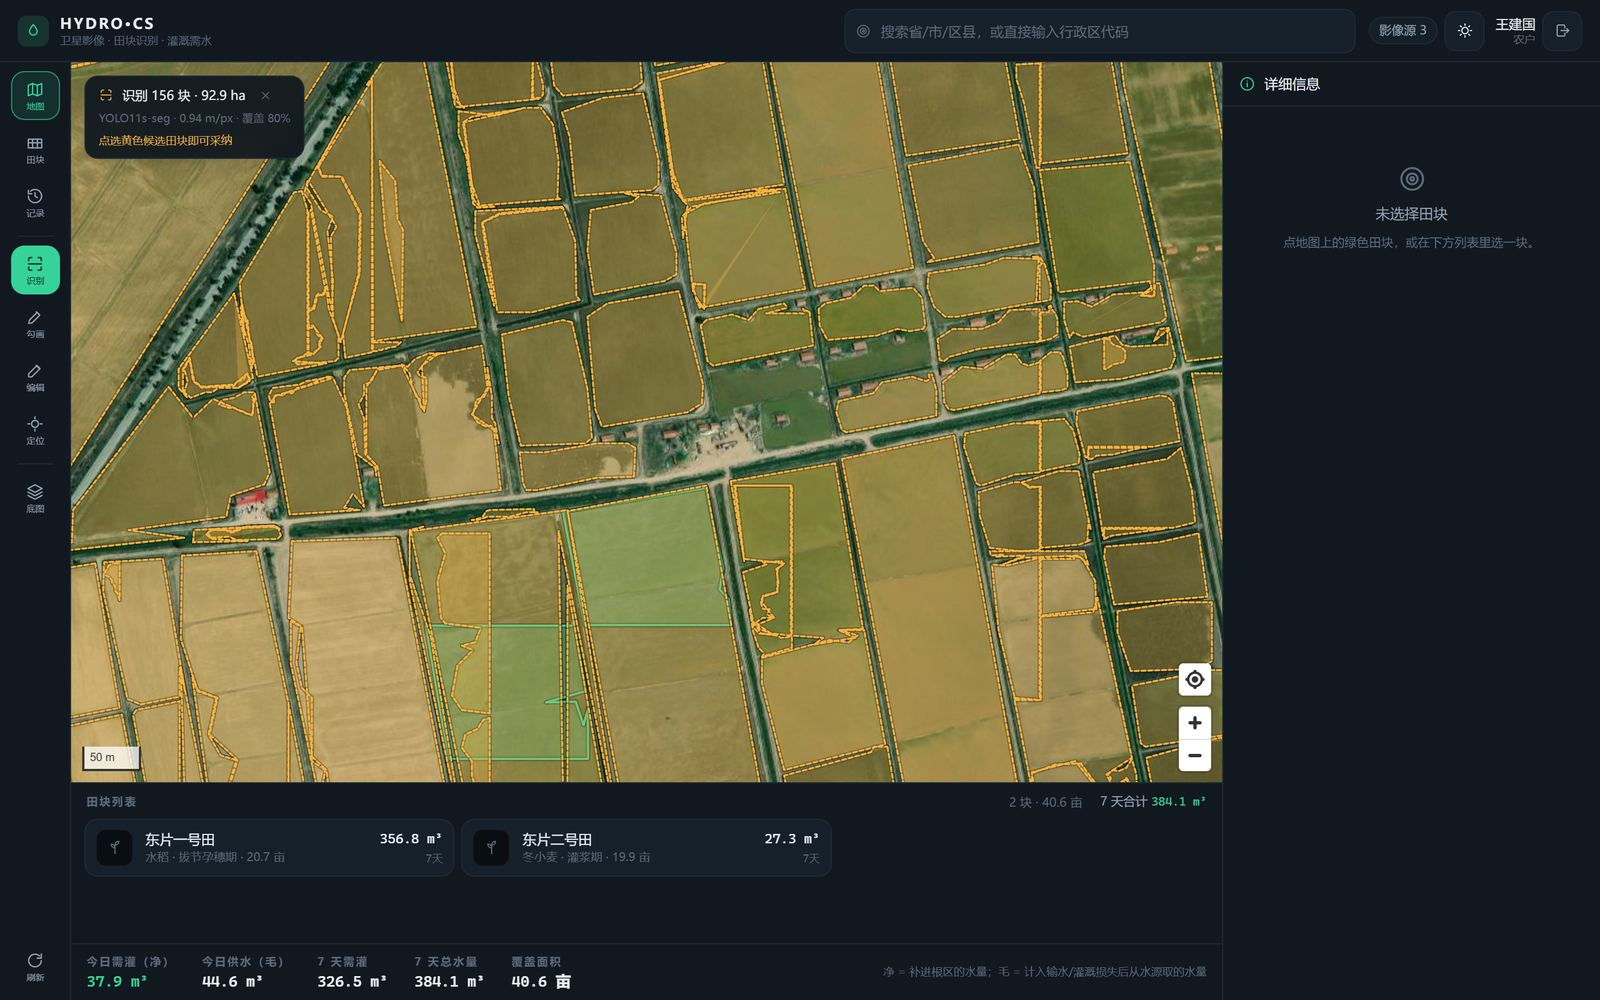
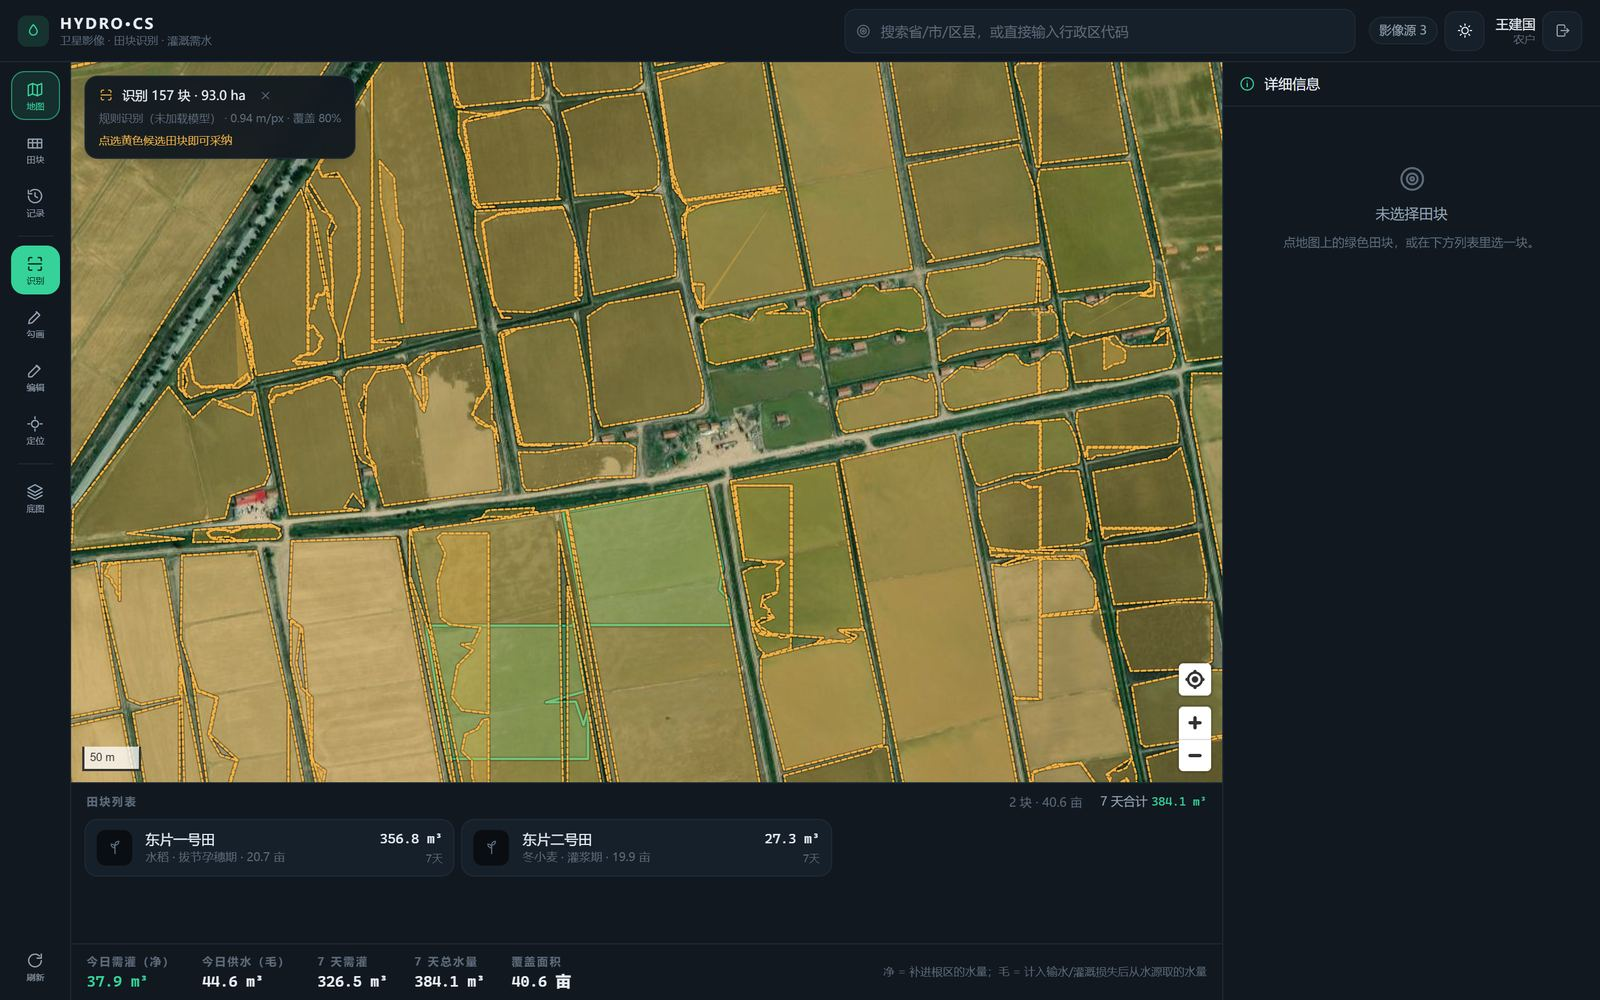
文档：新增 performance.md（算力后端实测与并发部署配方）
- docs/performance.md：环境、四后端延迟对比（CUDA 145 ms / DirectML 449 ms /
  torch-CPU 1130 ms / ONNX-CPU 1572 ms）、后处理优化 470→145 ms、并发与多进程
  实测、缓存命中、部署配方 A/B/C、环境变量与观测方式
- README：开头加算力一行；快速开始补「可选加速」两行命令与实测摘要；
  目录树补 compute / seg_engine / export_onnx / bench_*；验证表换成本轮实测数字
- architecture：新增 5.5 节说明后端探测顺序、两条引擎实现与掩膜一致性、
  进程内串行 + 多进程扩展的理由；API 表补 /segment/status
- 截图：管理端概览补「算力 CUDA（原生 GPU）· RTX 4060 · CUDA 13.0 · ORT 1.20.1」

diff --git a/README.md b/README.md
@@ -4,6 +4,7 @@
 
 - **前端**：移动优先 H5 / PWA（React 18 + TypeScript + Vite + Tailwind v4 + MapLibre GL）
 - **后端**：FastAPI（Python 3.12），跑 YOLO11s-seg 分割，并用**训练好的 ET 预测模型**（30 天 ERA5 窗口 → 日蒸散）解算需水量，SQLite 存田块与记录
+- **算力**：识别引擎自动挑选后端 —— 有 CUDA 就用 CUDA（比 CPU 快 **7.8×**），没有就把模型转译成 ONNX 交给 DirectML / CPU（详见 [docs/performance.md](docs/performance.md)）
 - **离线**：IndexedDB 缓存我的田块与历史，断网可查可编辑，联网按 op_id 幂等同步
 
 ```
@@ -82,6 +83,7 @@
 ```
 整合demo01/
 ├─ docs/architecture.md          架构、接口、算法规格（含验收标准）
+├─ docs/performance.md           算力后端与并发的实测数据、部署配方
 ├─ server/
 │  ├─ app/
 │  │  ├─ main.py                 FastAPI 入口（/healthz、/docs、可选托管 SPA）
@@ -90,15 +92,20 @@
 │  │  ├─ repository.py           田块持久化与序列化
 │  │  ├─ seed.py                 演示账号与 4 块示范田
 │  │  ├─ routers/                auth · fields · segment · irrigation · imagery · sync · admin
-│  │  └─ services/               geo（测地线/GCJ-02）· imagery · segmentation · et_grid · era5 · et_model · irrigation
+│  │  └─ services/               geo（测地线/GCJ-02）· imagery · compute（算力探测）
+│  │                             · seg_engine（CUDA/ONNX/DirectML 引擎）· segmentation
+│  │                             · et_grid · era5 · et_model · irrigation
 │  ├─ scripts/
 │  │  ├─ build_et_grid.py        rar → et_grid.npz（自动调用 Bandizip 抽取）
 │  │  ├─ build_era5_daily.py     逐小时 NC → 日尺度 + ET0 + Pe
 │  │  ├─ train_et_model.py       日尺度特征窗 → ET 模型（joblib），输出验证/测试指标
+│  │  ├─ export_onnx.py          .pt → .onnx（没有 CUDA 时的转译路径）
+│  │  ├─ bench_segment.py        各推理后端单张延迟对比
+│  │  ├─ bench_load.py           /segment 并发压测（吞吐、p50、分段耗时）
 │  │  ├─ build_admin_divisions.py 省/市边界 + 区县中心点 → 搜索索引
 │  │  ├─ smoke.py                端到端冒烟
 │  │  └─ debug_segment.py        识别可视化调试
-│  ├─ tests/test_core.py         35 个单元 + 接口测试
+│  ├─ tests/test_core.py         41 个单元 + 接口测试
 │  └─ artifacts/                 et_grid.npz、era5_daily.npz、models/et_model.joblib、weights/
 └─ web/
    ├─ src/components/            MapCanvas · ToolRail · FieldSheet · DetailPanel · EditBar · IrrigationChart
@@ -128,6 +135,21 @@ copy ..\..\农田识别分割\weights\4.102_best.pt artifacts\weights\4.102_best
 # ④ 启动
 python -m uvicorn app.main:app --host 127.0.0.1 --port 8000
 ```
+
+> **算力可选加速**（都不改代码，启动时自动探测，顺序 `cuda → onnx-cuda → onnx-dml → torch-cpu → onnx-cpu`）：
+>
+> ```powershell
+> # 有 NVIDIA 显卡：换 CUDA 版 torch，识别从 1.1 s 降到 145 ms
+> python -m pip install --index-url https://download.pytorch.org/whl/cu130 torch==2.12.1+cu130 torchvision==0.27.1+cu130
+>
+> # 没有 CUDA（含 AMD/Intel 显卡）：把权重转译成 ONNX，走 DirectML
+> python scripts/export_onnx.py
+> python -m pip install onnxruntime-directml
+> ```
+>
+> 实测与并发建议见 [docs/performance.md](docs/performance.md)：
+> CUDA 145 ms / DirectML 453 ms / CPU 1130 ms（同一张 1024×1280 拼图、55 个地块），
+> 单进程 7.1 req/s，2 进程 9.7 req/s；**进程内不要开并发**，横向扩展靠 `--workers`。
 
 ```powershell
 # 前端（开发模式，Vite 代理 /api 到 8000）
@@ -315,7 +337,7 @@ ERA5 缓存并重载。测试覆盖了「追加 + 覆盖」的合并语义。
 
 | 项目 | 结果 |
 |---|---|
-| 后端单测 + 接口测试 | `35 passed`（几何精度、FAO-56 复算、Kc 逻辑、周/月滚存、行政区检索与落区、瓦片象限裁切、气象合并语义、CRUD、越权、幂等同步、乐观锁冲突） |
+| 后端单测 + 接口测试 | `41 passed`（几何精度、FAO-56 复算、Kc 逻辑、周/月滚存、行政区检索与落区、瓦片象限裁切、气象合并语义、CRUD、越权、幂等同步、乐观锁冲突、算力探测与后端回退） |
 | ET 模型训练 | 2001–2002 训练（15 万样本）· 2003 验证选窗 · 2004 测试；1/7/30 天窗对比后取 30 天 |
 | ET 模型精度 | 2003 RMSE 0.483 mm/day（R² 0.881、MAE 0.335）；2004 RMSE 0.523 mm/day（R² 0.882、MAE 0.360），观测均值 1.88 mm/day |
 | 模型优先链路 | `2004-07-15` → ET 4.326 mm（`source: model`）；`2026-10-30` → ET 0.854 mm（`source: model-climatology`）；`method` = `model-hgb` |
@@ -324,6 +346,10 @@ ERA5 缓存并重载。测试覆盖了「追加 + 覆盖」的合并语义。
 | ET 网格资产 | 1830 天 × 33 × 29，有效像元 1,551,840，ET 0.00–14.78 mm/day |
 | ERA5 日尺度资产 | 1827 天 × 33 × 29 × 8 变量（38.5 MB）；年均 ET0 2.40–2.70 mm/day、降水 1.86–3.02 mm/day |
 | 需水接口耗时 | 单田块 7 天 ≈ 140 ms（含模型逐日推理）；两田块汇总 < 300 ms |
+| 识别算力（同一张 1024×1280 拼图、55 个地块） | CUDA **145 ms** · DirectML **453 ms** · torch-CPU **1130 ms** · ONNX-CPU 1572 ms |
+| 识别并发（单进程，推理闸门=1） | 并发 1/2/4 → p50 141/188/328 ms，吞吐 7.1/5.9/4.3 req/s |
+| 识别横向扩展（多进程） | 1/2/3 进程 → 7.1/9.7/10.8 req/s（单卡 8.6 GB 约 3 进程饱和） |
+| 识别缓存 | 同参数重复识别 ≈ 2 ms；拼图内存 LRU 命中 0 ms |
 | 前端构建 | `tsc --noEmit` 通过；`vite build` 1.06 MB JS / 305 KB gzip |
 | 浏览器巡检 | Playwright + Edge：桌面/手机双视口 + 搜索/勾画/行政区/气象/净毛/模型状态 共 20 张截图，**控制台 0 错误** |
 | 行政区汇总 | 东营市 370500：6 块田 / 2 户 / 113.4 亩 / 7 天 933 m³ |
@@ -340,6 +366,9 @@ ERA5 缓存并重载。测试覆盖了「追加 + 覆盖」的合并语义。
 cd server; python -m pytest tests -q
 cd server; python scripts/smoke.py              # 登录→田块→需水→识别→管理端
 cd server; python scripts/train_et_model.py     # 重训 ET 模型并打印验证/测试指标
+cd server; python scripts/export_onnx.py        # 导出 ONNX（DirectML/CUDA EP 用）
+cd server; python scripts/bench_segment.py      # 各推理后端延迟对比
+cd server; python scripts/bench_load.py --concurrency 1,2,4   # 并发压测（需先启动服务）
 cd server; python scripts/build_seed_fields.py  # 用识别结果重建演示田块
 cd server; python scripts/debug_segment.py      # 生成 seg_debug.png 目视检查
 cd web;    npm run build

diff --git a/docs/performance.md b/docs/performance.md
@@ -1,0 +1,133 @@
+# 算力与并发：实测数据与部署建议
+
+目标：C/S 部署时**有原生 CUDA 就用 CUDA，没有就把模型转译成 ONNX 交给
+ORT（DirectML / CPU）跑**，并在多用户并发下保持吞吐稳定。下面全部是本机实测数字，
+复现脚本在 `server/scripts/`。
+
+## 1. 测试环境
+
+| 项 | 值 |
+|---|---|
+| 系统 | Windows 11（build 26200） |
+| CPU | AMD Ryzen 9 7940HS（16 线程） |
+| 独显 | NVIDIA GeForce RTX 4060 Laptop（8.6 GB，驱动 CUDA UMD 13.4） |
+| 核显 | AMD Radeon 780M（DirectML 可用） |
+| 软件 | torch 2.12.1+cu130 / onnxruntime 1.20.1（CPU）/ onnxruntime-directml 1.24.4 / ultralytics 8.4.192 |
+| 负载 | 演示田 bbox @ z18 → 拼图 1024×1280、2 个推理窗口、55–56 个地块 |
+
+## 2. 后端对比（同一张图、同一套后处理）
+
+`python scripts/bench_segment.py` + `python .scratch/probe_pipeline.py`：
+
+| 后端 | 1024² 前向 | 单请求端到端（拼图 + 推理 + 矢量化） | 相对 CPU |
+|---|---|---|---|
+| `cuda`（.pt, fp16） | **25.7 ms** | **145 ms** | **7.8×** |
+| `onnx-dml`（.onnx, DirectML） | **21.9 ms** | **449 ms** | **2.5×** |
+| `torch-cpu`（.pt） | 501 ms | 1130 ms | 1× |
+| `onnx-cpu`（.onnx） | 718 ms | 1572 ms | 0.72× |
+
+（`onnx-dml` 的 449 ms 是走完整 HTTP 接口实测：`timing_ms={"mosaic":12.6,"infer":436.5,"total":449.1}`，
+56 个地块 / 23.33 ha；DirectML 那 22 ms 只是前向，掩膜重建仍在 CPU 上做。）
+
+结论：
+
+- **CUDA 是数量级提升**，且不必改代码 —— 装 CUDA 版 torch 后自动选中。
+- **DirectML 是「没有 CUDA 时」的最优解**：一张 `onnxruntime-directml`（约 40 MB）
+  就能让任意 DX12 显卡（NVIDIA / AMD / Intel 核显）跑起来，比 CPU 快 2.5×，
+  精度与 CPU 版一致（掩膜 IoU 0.97–0.99）。
+- **ONNX-CPU 比 torch-CPU 慢**（718 ms vs 501 ms），所以纯 CPU 机器不要为了「转译」
+  而转译：默认顺序里 torch-CPU 排在 onnx-CPU 前面，就是这个原因。
+
+## 3. 顺带做掉的后处理优化
+
+矢量化原来对每个实例在**整幅图**上做 `labels == id` + `astype` + `findContours`，
+55 个实例就是 55 次全图扫描。改成按检测框裁剪后再矢量化：
+
+| 版本 | 端到端（CUDA） |
+|---|---|
+| 优化前 | 470 ms |
+| 优化后 | **145 ms** |
+
+输出完全一致（55 块 / 23.344 ha / 覆盖率 80.5%），纯属白送的 3.2×。
+
+## 4. 并发：为什么「多线程」反而更慢
+
+`python scripts/bench_load.py --concurrency 1,2,4`（单进程，推理闸门 = 1）：
+
+| 后端 | 并发 | p50 延迟 | 吞吐 |
+|---|---|---|---|
+| CUDA | 1 | 141 ms | **7.1 req/s** |
+| CUDA | 2 | 188 ms | 5.9 req/s |
+| CUDA | 4 | 328 ms | 4.3 req/s |
+| DirectML | 1 | 441 ms | 2.3 req/s |
+| DirectML | 2 | 704 ms | 2.9 req/s |
+
+单进程内再开并发只会**降低吞吐**：推理之外还有大量 GIL 密集的 numpy/Python
+（掩膜上色、轮廓、测地线面积、去重），线程越多互相抢锁越严重（实测 4 路并发的
+p50 一度是串行的 8 倍）。所以：
+
+- 进程内用 `BoundedSemaphore` 把「推理 + 后处理 + 去重」整段串行化（`_gate()`），
+  并发请求进来排队，延迟线性增长、吞吐保持稳定，不会雪崩。
+- 启动时把 OpenCV 线程数收敛到 1、torch CPU 线程数收敛到 min(8, 核数/2)，
+  避免每个请求各自开满 16 线程互踩。
+- DirectML 因为 GPU 侧的调用是异步的，2 路并发时吞吐反而略升（2.3 → 2.9 req/s），
+  但它本身单请求就 441 ms，没有 CUDA 的机器不必追求并发。
+
+**横向扩展靠多进程**（`uvicorn --workers N`，每个进程独占一份模型）：
+
+| 进程数 | 合成吞吐 | 每请求耗时 |
+|---|---|---|
+| 1 | 7.1 /s | 140 ms |
+| 2 | 9.7 /s | 206 ms |
+| 3 | 10.8 /s | 278 ms |
+
+2 进程 +37%，3 进程开始饱和（单卡 8.6 GB，每个进程约占 0.6 GB 显存）。
+`python .scratch/probe_multi_process.py` 可复现。
+
+## 5. 缓存带来的「秒回」
+
+| 场景 | 延迟 |
+|---|---|
+| 同一 bbox + 同样参数再识别一次 | **约 2 ms**（结果缓存 180 分钟） |
+| bbox 不同但瓦片已在磁盘 | 拼图 **0 ms**（内存 LRU，8 幅）/ 首次约 15 ms |
+| 全新区域（要联网抓瓦片） | 0.5–2 s，取决于上游 |
+
+## 6. 部署配方
+
+```powershell
+# A. 有 NVIDIA + 能装 CUDA 版 torch（推荐）
+python -m pip install --index-url https://download.pytorch.org/whl/cu130 torch==2.12.1+cu130 torchvision==0.27.1+cu130
+$env:HYDROCS_SEG_BACKEND = "auto"      # 自动选中 cuda
+$env:HYDROCS_WARMUP = "1"              # 启动即预热，首个请求不再等 3 s
+python -m uvicorn app.main:app --host 0.0.0.0 --port 8000 --workers 2
+
+# B. 没有 CUDA（含 AMD/Intel 显卡、纯 CPU 的服务器）
+python scripts/export_onnx.py                           # 一次性导出 40 MB ONNX
+python -m pip install onnxruntime-directml              # Windows + DX12 显卡
+$env:HYDROCS_SEG_BACKEND = "auto"                       # 自动选中 onnx-dml，退到 torch-cpu
+python -m uvicorn app.main:app --host 0.0.0.0 --port 8000 --workers 1
+
+# C. 想钉死某条链路（排障用）
+$env:HYDROCS_SEG_BACKEND = "torch-cpu"                  # 或 cuda / onnx-dml / onnx-cpu / onnx-cuda
+```
+
+## 7. 相关环境变量
+
+| 变量 | 默认 | 说明 |
+|---|---|---|
+| `HYDROCS_SEG_BACKEND` | `auto` | `auto` 按 cuda → onnx-cuda → onnx-dml → torch-cpu → onnx-cpu 依次尝试 |
+| `HYDROCS_WARMUP` | 关 | 启动时加载模型并跑一次空推理，消掉首请求的 3 s 初始化 |
+| `HYDROCS_SEG_CONCURRENCY` | 1 | 进程内推理并发上限；**不建议大于 1**（见第 4 节） |
+| `HYDROCS_SEG_TORCH_THREADS` | min(8, 核/2) | torch CPU 线程数（GPU 推理也用得到，因为 NMS 在 CPU） |
+| `HYDROCS_SEG_CV_THREADS` | 1 | OpenCV 线程数 |
+| `HYDROCS_SEG_ORT_THREADS` | 0（ORT 默认） | 仅 ONNX-CPU 生效 |
+| `HYDROCS_MOSAIC_CACHE` | 8 | 拼图内存缓存条数（每条约 4 MB） |
+| `HYDROCS_ONNX` | 与 `.pt` 同名 | ONNX 权重路径 |
+
+## 8. 观测
+
+- `GET /healthz` → `segmentation`（当前后端 + 设备 + 闸门大小）、`compute`（torch / ORT 能力与探测原因）。
+- `GET /api/v1/segment/status` → 同上 + 每个后端的可用性与不可用原因。
+- `POST /api/v1/segment` 的响应里带 `timing_ms: {mosaic, infer, total}`。
+- `HYDROCS_SEG_PROFILE=1` 时日志会打印每次识别的 `infer / paint / vectorize` 分段耗时。
+- `python scripts/bench_load.py` / `bench_segment.py` 做回归压测。

diff --git a/docs/architecture.md b/docs/architecture.md
@@ -82,7 +82,36 @@ bbox + zoom
   → GeoJSON FeatureCollection（含 area_m2 / area_mu / confidence）
 ```
 
-失败降级顺序：`yolo` → `heuristic`（LAB 色彩聚类 + 形态学 + 连通域，无需模型）→ `503` 并说明原因。响应里始终带 `backend` 字段，前端据此提示"当前为规则识别，建议手动修正"。
+失败降级顺序：`model` → `heuristic`（LAB 色彩聚类 + 形态学 + 连通域，无需模型）→ `503` 并说明原因。响应里始终带 `backend` 字段（形如 `yolo11s-seg · cuda`），前端据此提示"当前为规则识别，建议手动修正"。
+
+## 5.5 计算后端：有 CUDA 用 CUDA，没有就转译
+
+`services/compute.py` 探测能力，`services/seg_engine.py` 按结果造引擎，两者都不依赖具体硬件：
+
+```
+探测：torch 版本 / torch.version.cuda / cuda.is_available / GPU 型号显存
+      + onnxruntime.get_available_providers()
+选择：auto → cuda → onnx-cuda → onnx-dml → torch-cpu → onnx-cpu → heuristic
+```
+
+| 后端 | 权重 | 触发条件 | 说明 |
+|---|---|---|---|
+| `cuda` | `.pt` | CUDA 版 torch + 可用 GPU | 走 ultralytics 原生推理，`quantize="fp16"` |
+| `onnx-cuda` | `.onnx` | ORT 提供 `CUDAExecutionProvider` | 兼容 `onnxruntime-gpu` |
+| `onnx-dml` | `.onnx` | ORT 提供 `DmlExecutionProvider` | Windows + 任意 DX12 显卡（NVIDIA/AMD/Intel） |
+| `torch-cpu` | `.pt` | 兜底 | 实测比 ONNX-CPU 快 ~1.4× |
+| `onnx-cpu` | `.onnx` | 兜底备选 | 可用 `HYDROCS_SEG_ORT_THREADS` 调线程 |
+
+两个引擎对外是同一个接口 `predict(crop) -> (masks, scores, boxes)`：
+
+- `UltralyticsEngine`：直接 `YOLO(.pt)`，用 `devices=` / 精度参数切换 GPU/CPU。
+- `OnnxEngine`：自己开 ORT 会话（前处理 letterbox、后处理复用 ultralytics 的
+  `non_max_suppression` + `process_mask`），因此 CUDA / DirectML / CPU 三种 EP 走同一段代码。
+  两条路径的掩膜一致性实测 IoU 0.97–0.99（含非方形裁剪图，靠 `_unpad_masks` 裁掉居中填充）。
+
+**并发**：进程内用 `BoundedSemaphore` 把「推理 + 上色 + 矢量化 + 去重」串行化（默认 1），
+因为这几步是 GIL/GPU 争用型工作，多线程只会互相拖慢（实测 4 路并发 p50 反而涨到 5–8 倍）；
+横向扩展靠 `uvicorn --workers N`。实测数据与部署配方见 [performance.md](performance.md)。
 
 ## 6. 灌溉需水量
 
@@ -145,6 +174,7 @@ ETc       = ET_field · Kc(作物, 生育期) / Kc_ref                # Kc_ref =
 | GET | `/geo/search` `/geo/locate` `/geo/regions` | 行政区模糊搜索 / 坐标反查 / 层级列表 |
 | GET | `/admin/regions/overview` `/admin/regions/summary` | 行政区需水汇总与用水户统计 |
 | GET/POST | `/admin/meteo/status` `/fs` `/upload` `/scan` `/rebuild` | 气象数据运维 |
+| GET | `/segment/status` | 当前识别后端、设备、各后端可用性与原因、拼图缓存 |
 
 ## 7.5 行政区划与气象运维
 
